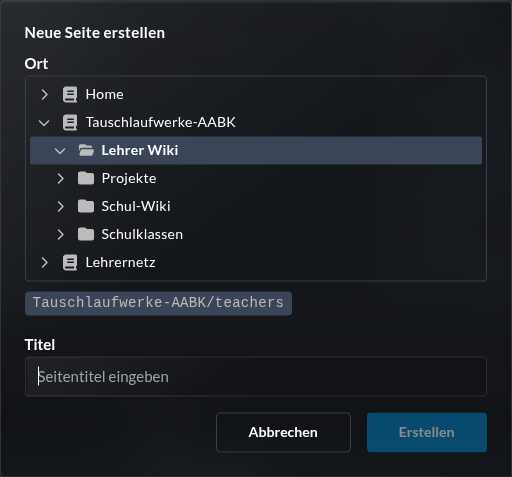
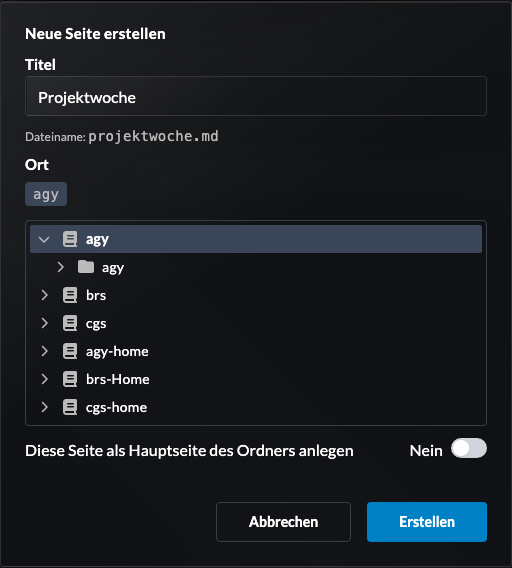
Describe the new field order in the wiki create dialogs (#3664)
Both dialogs now ask for the title or folder name first, then the location, then the index switch. The index option is a switch that only appears while the selected folder has no main page yet, and the screenshot shows the current dialog.

diff --git a/docs/edulution-plattform/apps/native-apps/wiki.md b/docs/edulution-plattform/apps/native-apps/wiki.md
@@ -86,18 +86,18 @@ Sie können Ihre Version übernehmen, die andere übernehmen oder den Konflikt m
 
 **Neue Seite**
 1. Klicken Sie auf **Neue Seite**
-2. Wählen Sie unter **Ort** den Zielordner – vorausgewählt ist der Ordner der gerade geöffneten Seite
-3. Geben Sie den **Titel** ein
-4. Optional: Setzen Sie das Häkchen bei **Diese Seite als Hauptseite des Ordners anlegen** (Index), wenn die Seite als Einstiegsseite des Ordners dienen soll
+2. Geben Sie den **Titel** ein
+3. Wählen Sie unter **Ort** den Zielordner – vorausgewählt ist der Ordner der gerade geöffneten Seite
+4. Optional: Schalten Sie **Diese Seite als Hauptseite des Ordners anlegen** (Index) ein, wenn die Seite als Einstiegsseite des Ordners dienen soll. Der Schalter erscheint nur, solange der gewählte Ordner noch keine Hauptseite hat
 5. **Erstellen** bestätigt das Anlegen
 
 **Neuer Ordner**
 1. Klicken Sie auf **Neuer Ordner**
-2. Wählen Sie unter **Ort** den übergeordneten Ordner – vorausgewählt ist der Ordner der gerade geöffneten Seite
-3. Geben Sie den **Ordnernamen** ein
+2. Geben Sie den **Ordnernamen** ein
+3. Wählen Sie unter **Ort** den übergeordneten Ordner – vorausgewählt ist der Ordner der gerade geöffneten Seite
 4. **Erstellen** bestätigt das Anlegen
 
-Haben Sie in der Seitenleiste einen Ordner geöffnet, ist dieser Ordner selbst vorausgewählt. Die Vorauswahl richtet sich immer nach der gerade geöffneten Seite – auch dann, wenn Sie über einen Link innerhalb eines Artikels, über die Zurück-Schaltfläche des Browsers oder über eine direkt aufgerufene Adresse dorthin gelangt sind.
+Haben Sie in der Seitenleiste einen Ordner geöffnet, ist dieser Ordner selbst vorausgewählt. Die Vorauswahl richtet sich immer nach der gerade geöffneten Seite – auch dann, wenn Sie über einen Link innerhalb eines Artikels, über die Zurück-Schaltfläche des Browsers oder über eine direkt aufgerufene Adresse dorthin gelangt sind. Der gewählte Ort steht als Pfad direkt unter **Ort**, auch wenn der Ordner im Baum darunter erst nach dem Scrollen zu sehen ist.
 
 ## Seiten suchen
 
